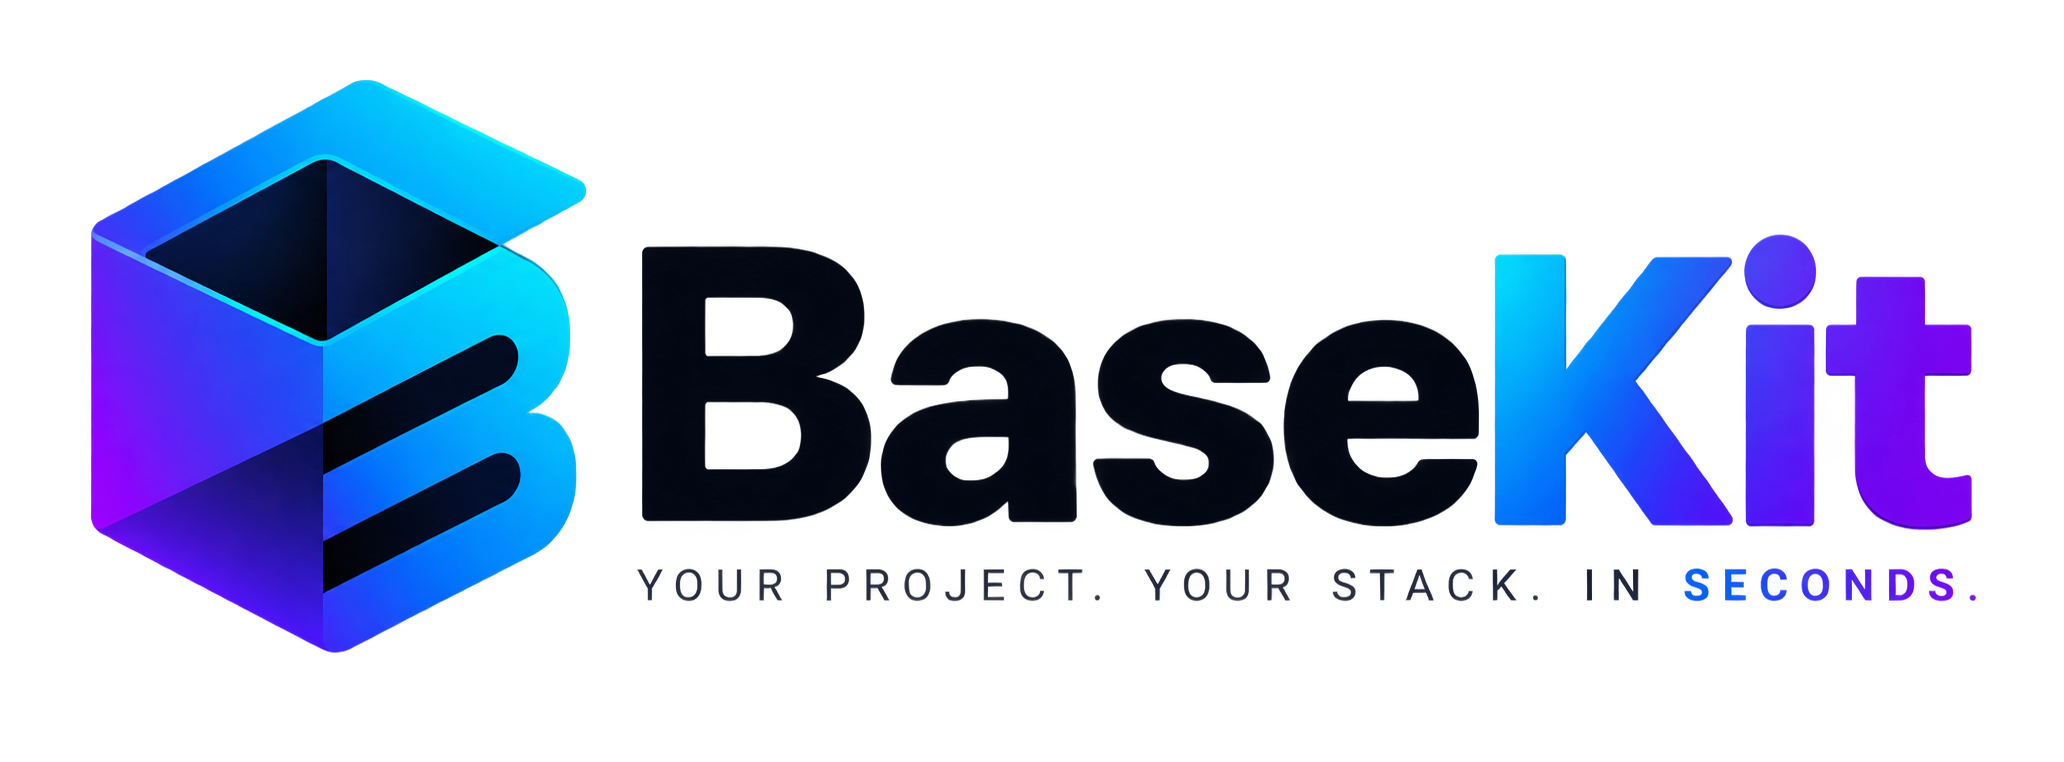
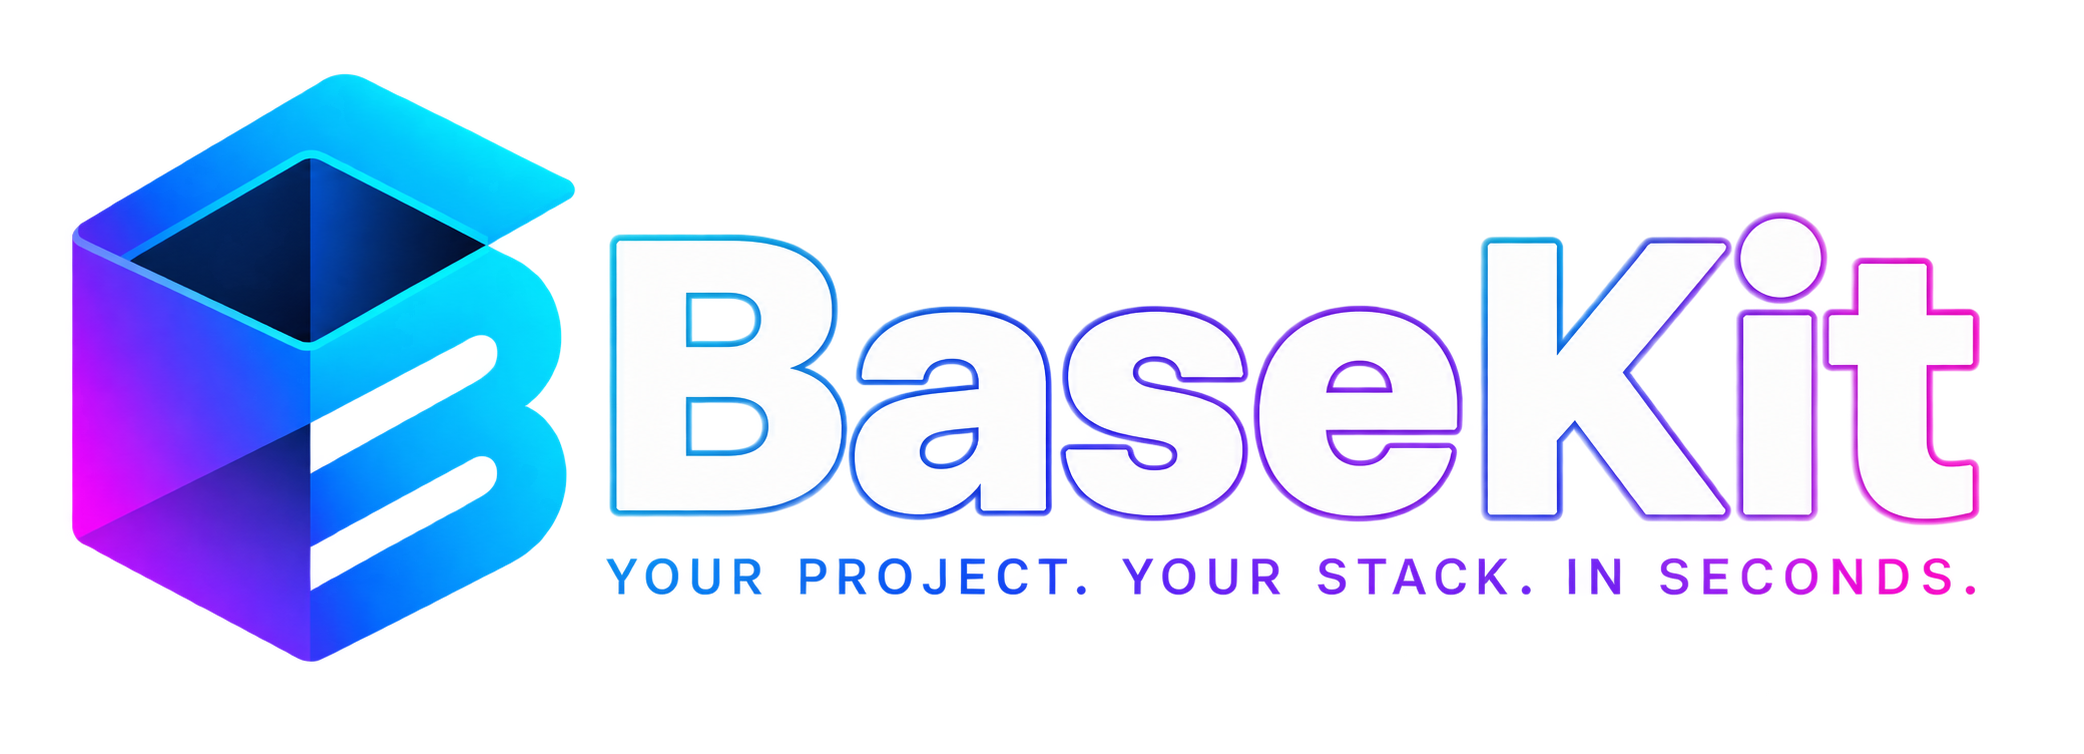
feat: expand admin and user navigation structure with new placeholder pages and update site branding

Changed region(s): [[0.031, 0.0915, 0.9612, 0.8846], [0.2791, 0.7321, 0.9612, 0.7931]]

diff --git a/src/lib/nav/admin.ts b/src/lib/nav/admin.ts
@@ -1,11 +1,13 @@
 import {
   ChartPie,
+  FileText,
+  List,
+  Package,
   Users,
-  Megaphone,
-  Grid2x2,
-  Clipboard,
+  User,
+  Network,
+  Headphones,
   Settings,
-  HelpCircle,
 } from "lucide-react";
 import { NavGroup } from "./types";
 
@@ -13,51 +15,33 @@ export const adminNavItems: NavGroup[] = [
   {
     group: "Main Menu",
     items: [
-      {
-        name: "Overview",
-        path: "/admin",
-        icon: ChartPie,
+      { name: "Overview", path: "/admin", icon: ChartPie },
+      { 
+        name: "Reports", path: "/admin/reports", icon: FileText,
+        children: [{ name: "All Reports", path: "/admin/reports/all" }] 
       },
-      {
-        name: "Dynamic Table",
-        path: "/admin/table-demo",
-        icon: Clipboard,
+      { 
+        name: "Items", path: "/admin/items", icon: List,
+        children: [{ name: "All Items", path: "/admin/items/all" }] 
       },
-      {
-        name: "Dynamic Form",
-        path: "/admin/form-demo",
-        icon: Grid2x2,
+      { 
+        name: "Inventory", path: "/admin/inventory", icon: Package,
+        children: [{ name: "Current Inventory", path: "/admin/inventory/current" }] 
       },
-    ],
-  },
-  {
-    group: "Management",
-    items: [
-      {
-        name: "Employees",
-        path: "/admin/employees",
-        icon: Users,
+      { 
+        name: "Employees", path: "/admin/employees", icon: Users,
+        children: [{ name: "All Employees", path: "/admin/employees/all" }] 
       },
-      {
-        name: "Marketing",
-        path: "/admin/marketing",
-        icon: Megaphone,
+      { name: "Customers", path: "/admin/customers", icon: User },
+      { 
+        name: "Integrations", path: "/admin/integrations", icon: Network,
+        children: [{ name: "Active", path: "/admin/integrations/active" }] 
       },
-    ],
-  },
-  {
-    group: "Settings",
-    items: [
-      {
-        name: "System Settings",
-        path: "/admin/settings",
-        icon: Settings,
+      { 
+        name: "Help", path: "/admin/help", icon: Headphones,
+        children: [{ name: "Support Center", path: "/admin/help/support" }] 
       },
-      {
-        name: "Help & Support",
-        path: "/admin/help",
-        icon: HelpCircle,
-      },
+      { name: "settings", path: "/admin/settings", icon: Settings },
     ],
   },
 ];

diff --git a/src/lib/nav/user.ts b/src/lib/nav/user.ts
@@ -1,30 +1,47 @@
-import { ChartPie, Users, Settings } from "lucide-react";
+import {
+  ChartPie,
+  FileText,
+  List,
+  Package,
+  Users,
+  User,
+  Network,
+  Headphones,
+  Settings,
+} from "lucide-react";
 import { NavGroup } from "./types";
 
 export const userNavItems: NavGroup[] = [
   {
-    group: "Dashboard",
+    group: "Main Menu",
     items: [
-      {
-        name: "My Overview",
-        path: "/user",
-        icon: ChartPie,
+      { name: "Overview", path: "/user", icon: ChartPie },
+      { 
+        name: "Reports", path: "/user/reports", icon: FileText,
+        children: [{ name: "All Reports", path: "/user/reports/all" }] 
       },
-      {
-        name: "Profile Setup",
-        path: "/user/profile",
-        icon: Users,
+      { 
+        name: "Items", path: "/user/items", icon: List,
+        children: [{ name: "All Items", path: "/user/items/all" }] 
       },
-    ],
-  },
-  {
-    group: "Settings",
-    items: [
-      {
-        name: "Settings",
-        path: "/user/settings",
-        icon: Settings,
+      { 
+        name: "Inventory", path: "/user/inventory", icon: Package,
+        children: [{ name: "Current Inventory", path: "/user/inventory/current" }] 
       },
+      { 
+        name: "Employees", path: "/user/employees", icon: Users,
+        children: [{ name: "All Employees", path: "/user/employees/all" }] 
+      },
+      { name: "Customers", path: "/user/customers", icon: User },
+      { 
+        name: "Integrations", path: "/user/integrations", icon: Network,
+        children: [{ name: "Active", path: "/user/integrations/active" }] 
+      },
+      { 
+        name: "Help", path: "/user/help", icon: Headphones,
+        children: [{ name: "Support Center", path: "/user/help/support" }] 
+      },
+      { name: "settings", path: "/user/settings", icon: Settings },
     ],
   },
 ];

diff --git a/src/app/layout.tsx b/src/app/layout.tsx
@@ -17,8 +17,11 @@ const geistMono = Geist_Mono({
 });
 
 export const metadata: Metadata = {
-  title: "Next.js Basekit Starter Template",
+  title: "BaseKit",
   description: "Premium, production-ready Next.js starter kit",
+  icons: {
+    icon: "/basekitfavicon.png",
+  },
 };
 
 export default function RootLayout({

diff --git a/src/components/layout/PublicNavbar.tsx b/src/components/layout/PublicNavbar.tsx
@@ -122,7 +122,7 @@ export default function PublicNavbar() {
           {/* Logo */}
           <div className="flex items-center">
             <Link href="/" className="no-underline hover:opacity-90">
-              <Logo />
+              <Logo className="w-40 md:w-56" />
             </Link>
           </div>
 

diff --git a/src/app/admin/integrations/active/page.tsx b/src/app/admin/integrations/active/page.tsx
@@ -1,0 +1,5 @@
+import WorkInProgress from "@/components/common/WorkInProgress";
+
+export default function Page() {
+  return <WorkInProgress title="INTEGRATIONS ACTIVE" />;
+}

diff --git a/src/app/user/integrations/active/page.tsx b/src/app/user/integrations/active/page.tsx
@@ -1,0 +1,5 @@
+import WorkInProgress from "@/components/common/WorkInProgress";
+
+export default function Page() {
+  return <WorkInProgress title="INTEGRATIONS ACTIVE" />;
+}

diff --git a/src/app/admin/inventory/current/page.tsx b/src/app/admin/inventory/current/page.tsx
@@ -1,0 +1,5 @@
+import WorkInProgress from "@/components/common/WorkInProgress";
+
+export default function Page() {
+  return <WorkInProgress title="INVENTORY CURRENT" />;
+}

diff --git a/src/app/user/inventory/current/page.tsx b/src/app/user/inventory/current/page.tsx
@@ -1,0 +1,5 @@
+import WorkInProgress from "@/components/common/WorkInProgress";
+
+export default function Page() {
+  return <WorkInProgress title="INVENTORY CURRENT" />;
+}

diff --git a/src/app/admin/employees/all/page.tsx b/src/app/admin/employees/all/page.tsx
@@ -1,0 +1,5 @@
+import WorkInProgress from "@/components/common/WorkInProgress";
+
+export default function Page() {
+  return <WorkInProgress title="EMPLOYEES ALL" />;
+}

diff --git a/src/app/user/employees/all/page.tsx b/src/app/user/employees/all/page.tsx
@@ -1,0 +1,5 @@
+import WorkInProgress from "@/components/common/WorkInProgress";
+
+export default function Page() {
+  return <WorkInProgress title="EMPLOYEES ALL" />;
+}

diff --git a/src/app/admin/help/support/page.tsx b/src/app/admin/help/support/page.tsx
@@ -1,0 +1,5 @@
+import WorkInProgress from "@/components/common/WorkInProgress";
+
+export default function Page() {
+  return <WorkInProgress title="HELP SUPPORT" />;
+}

diff --git a/src/app/user/help/support/page.tsx b/src/app/user/help/support/page.tsx
@@ -1,0 +1,5 @@
+import WorkInProgress from "@/components/common/WorkInProgress";
+
+export default function Page() {
+  return <WorkInProgress title="HELP SUPPORT" />;
+}
